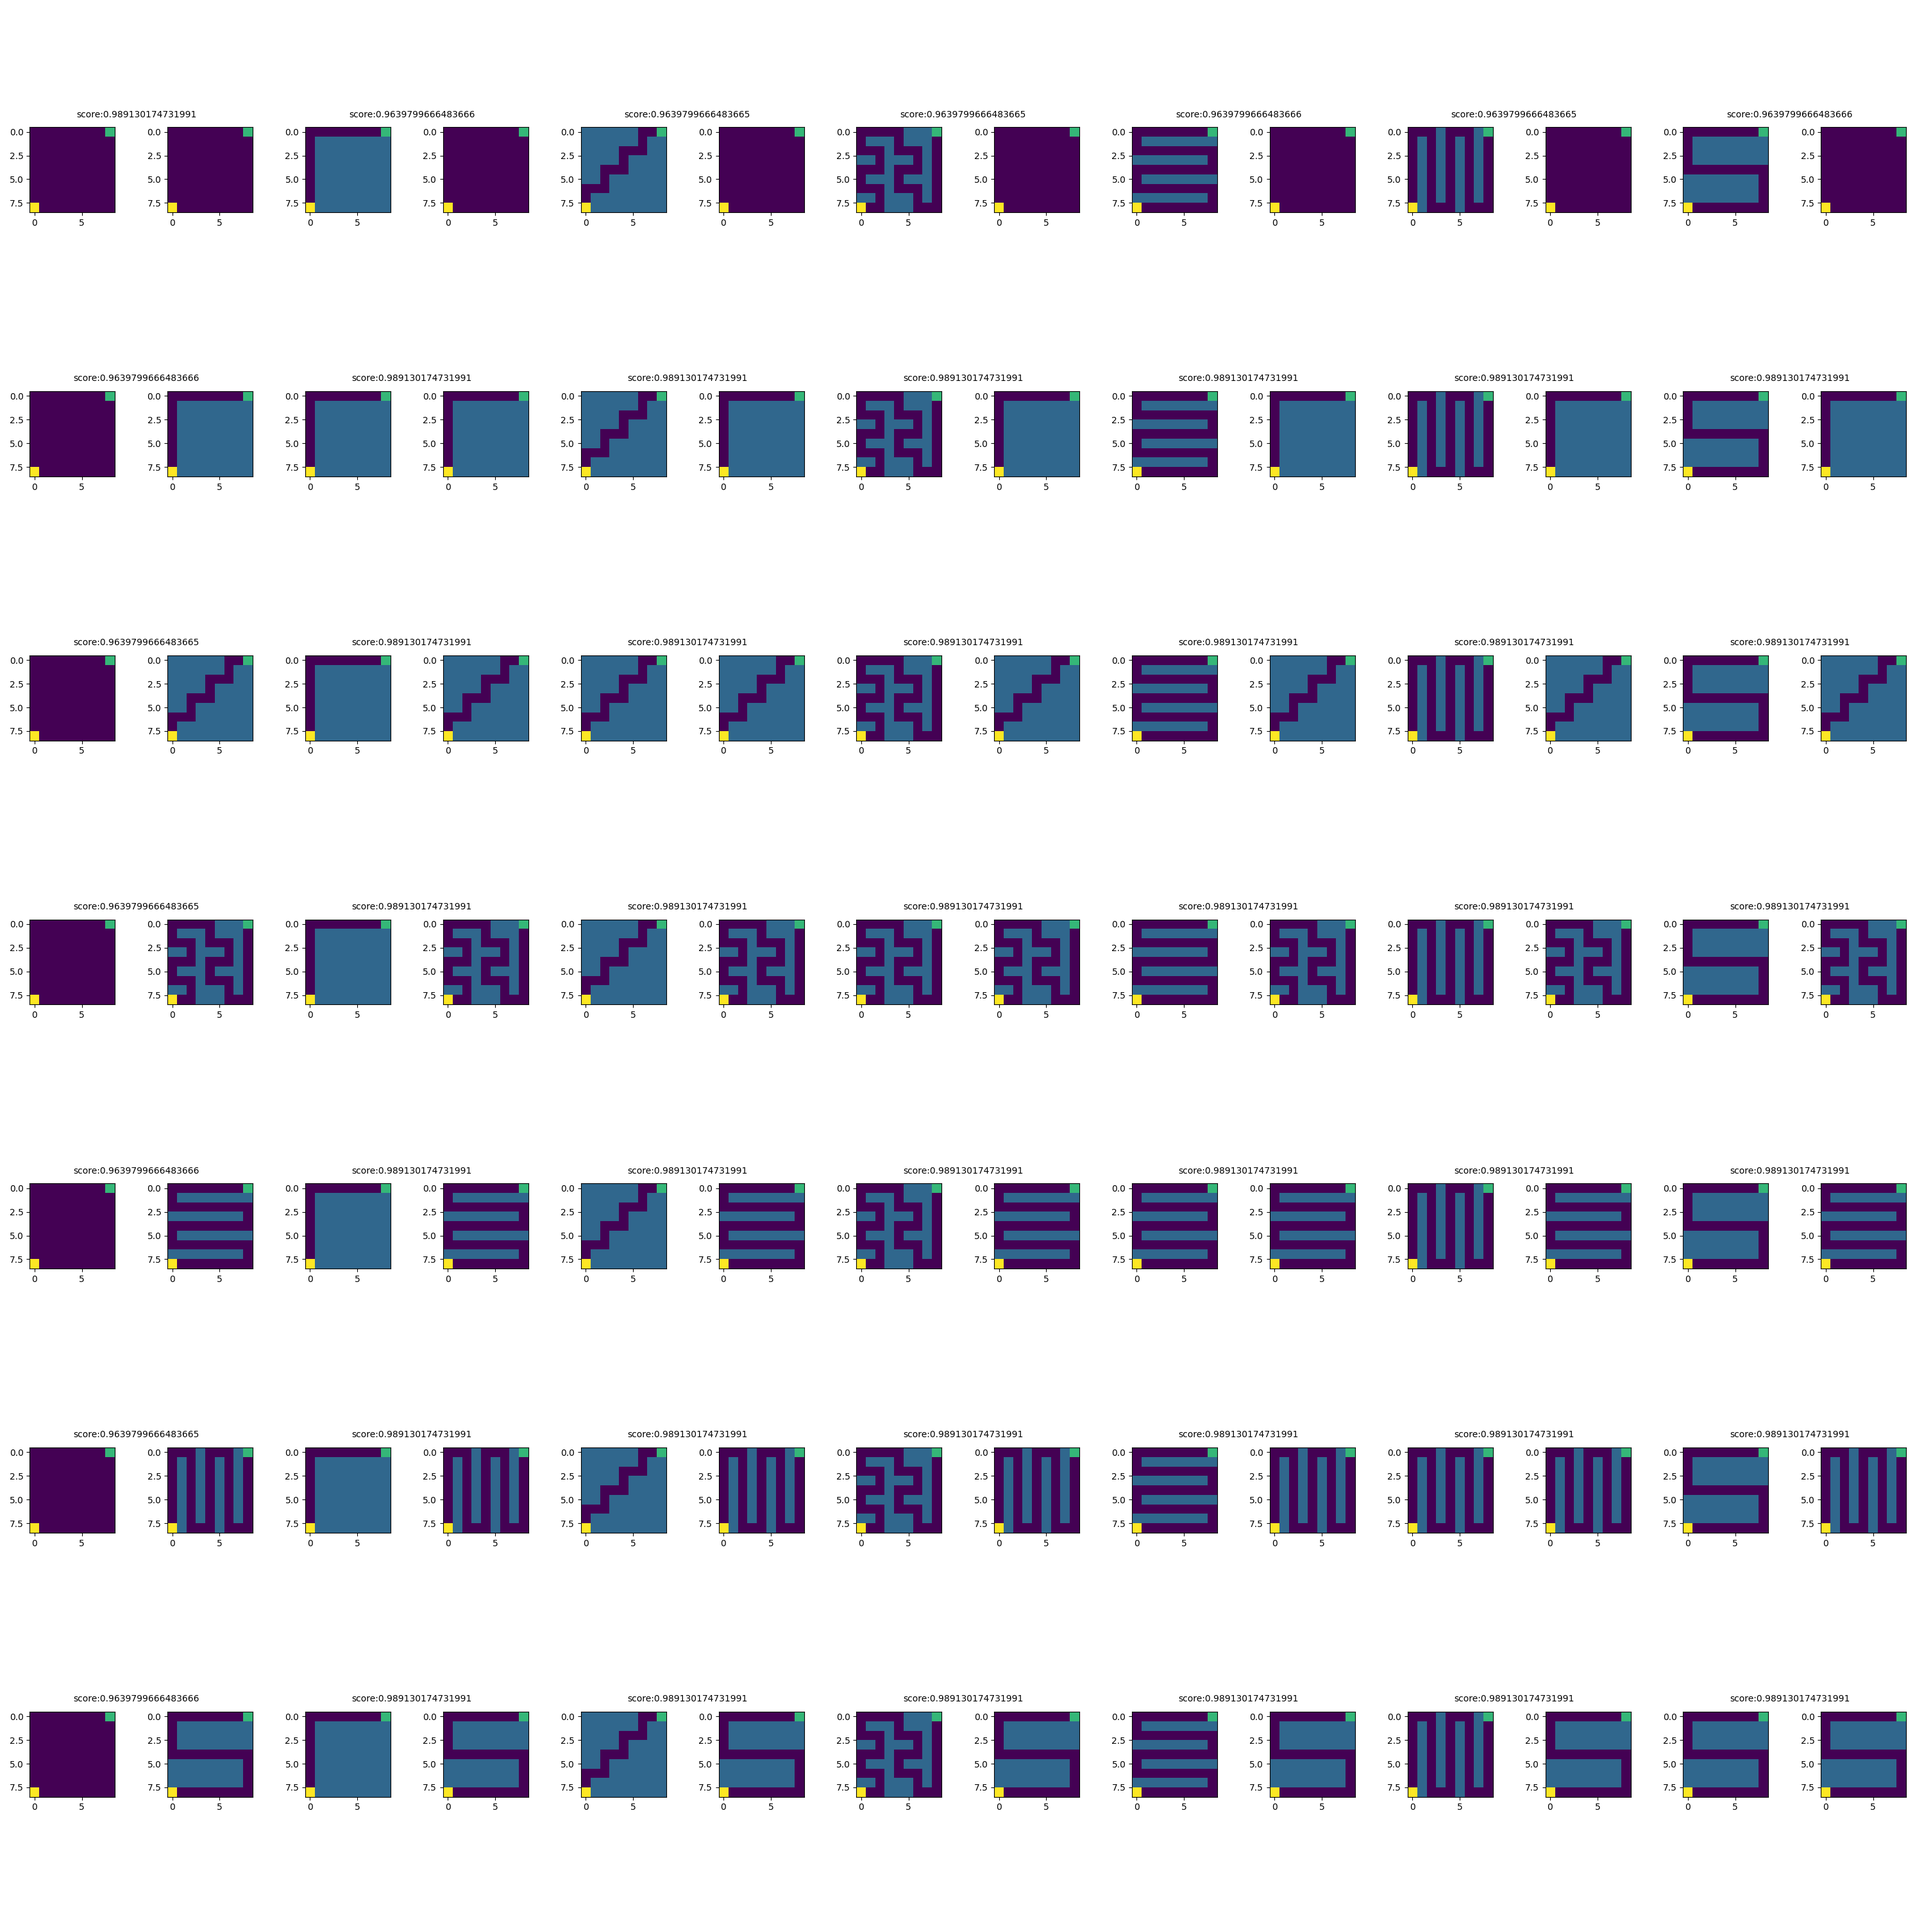
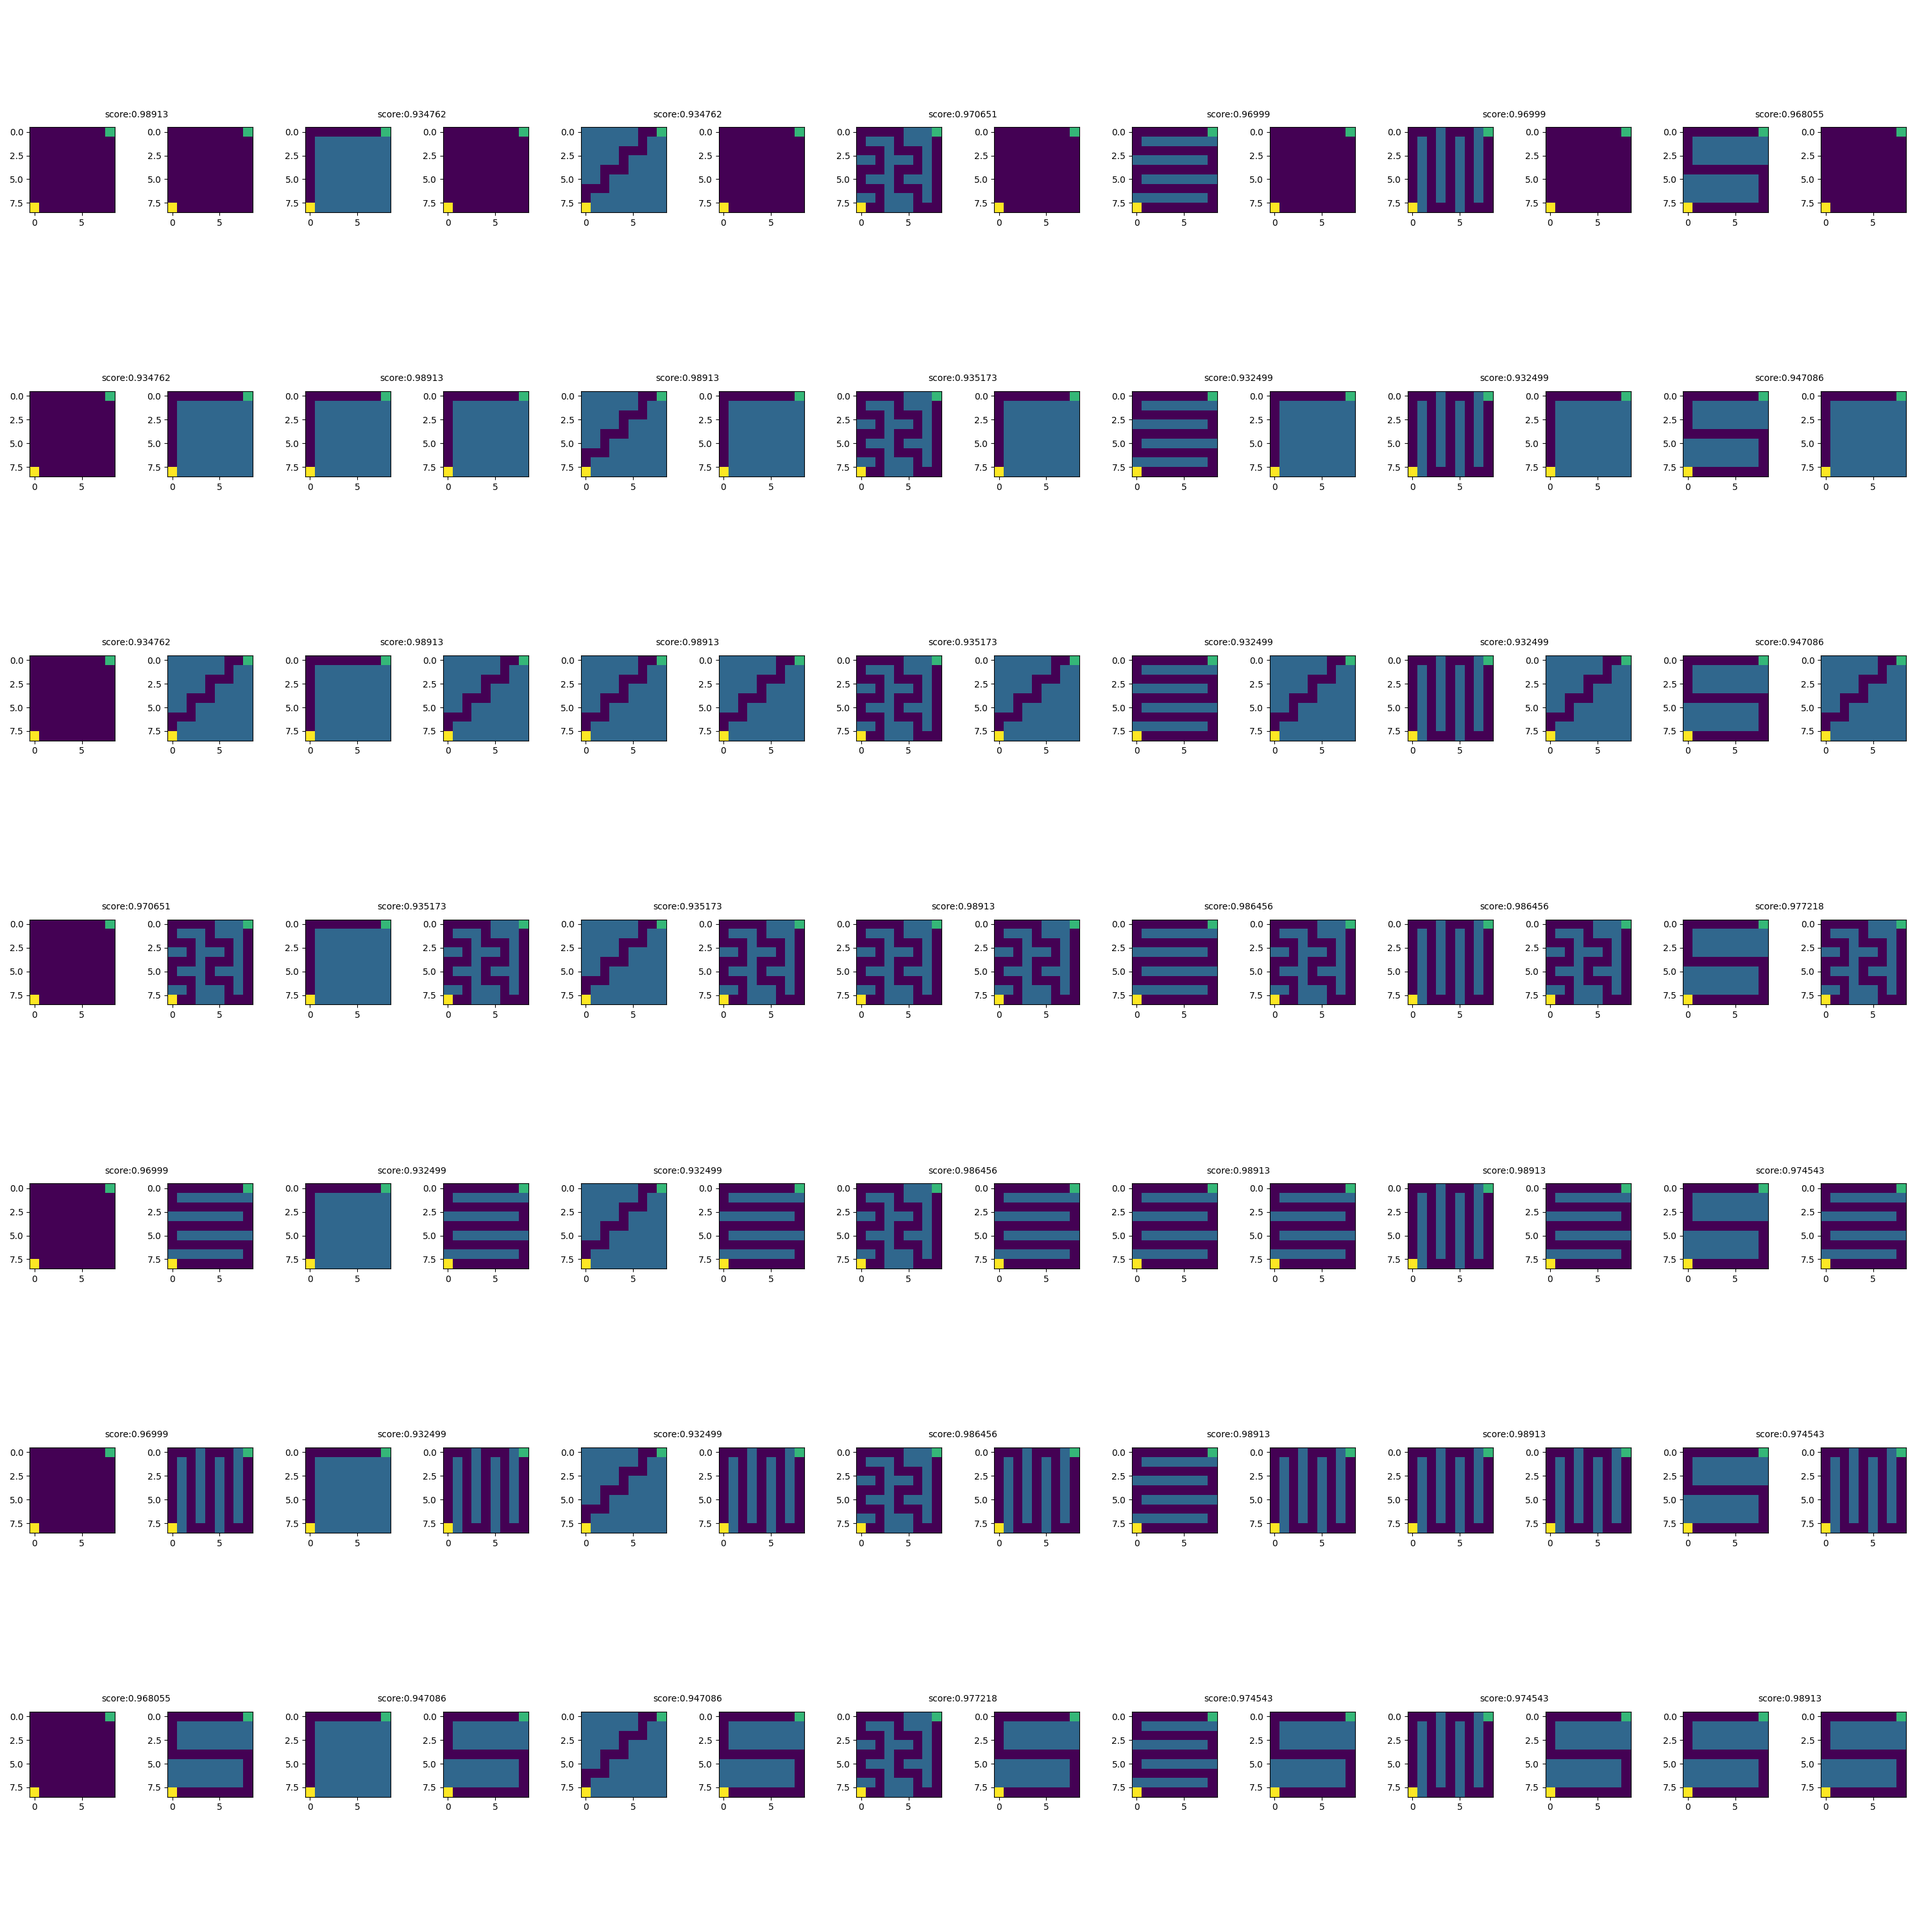
added new strategy

diff --git a/tasksim/gridworld_generator.py b/tasksim/gridworld_generator.py
@@ -22,6 +22,8 @@ from enum import Enum
 
 from collections import namedtuple
 
+
+
 # Strategy for available actions; k = # of actions at each state
 # TODO: allow for both action & effect at once? NOOP_BOTH & WRAP_NOOP_BOTH maybe...
 # TODO: make composable traits, rather than all combinations listed out...
@@ -32,6 +34,11 @@ class ActionStrategy(Enum):
     WRAP_SUBSET = 4 # SUBSET, but wraparound at borders
     WRAP_NOOP_ACTION = 5 # NOOP_ACTION, ""
     WRAP_NOOP_EFFECT = 6 # NOOP_EFFECT, ""
+    SUBSET_COMPRESS = 7 # Subset, plus remove obstacles entirely from state graph
+    NOOP_EFFECT_COMPRESS = 8 # Subset, plus remove obstacles entirely from state graph
+
+WRAP_STRATS = [ActionStrategy.WRAP_SUBSET, ActionStrategy.WRAP_NOOP_ACTION, ActionStrategy.WRAP_NOOP_EFFECT]
+COMPRESS_STRATS = [ActionStrategy.SUBSET_COMPRESS, ActionStrategy.NOOP_EFFECT_COMPRESS]
 
 # Simple-ish wrapper class of (P, R, out_s, out_a)
 class MDPGraph:
@@ -70,7 +77,7 @@ class MDPGraph:
             moves[4] = state
 
         # start wtih no-op effect for all actions
-        if strat == ActionStrategy.NOOP_EFFECT or strat == ActionStrategy.WRAP_NOOP_EFFECT:
+        if strat == ActionStrategy.NOOP_EFFECT or strat == ActionStrategy.WRAP_NOOP_EFFECT or strat == ActionStrategy.NOOP_EFFECT_COMPRESS:
             moves[0] = moves[1] = moves[2] = moves[3] = state
         
         # obstacles and goal states have no out neighbors (besides no-op)
@@ -78,7 +85,7 @@ class MDPGraph:
             return moves
         
         # should wrap around or not
-        wrap = (strat in [ActionStrategy.WRAP_NOOP_EFFECT, ActionStrategy.WRAP_NOOP_ACTION, ActionStrategy.WRAP_SUBSET])
+        wrap = (strat in WRAP_STRATS)
 
         # left
         if col > 0 and grid[row][col - 1] != 1:
@@ -107,12 +114,22 @@ class MDPGraph:
     def grid_to_graph(cls, grid, success_prob=0.9, reward=1, strat=ActionStrategy.NOOP_ACTION):
         height, width = grid.shape
         goal_states = []
+        num_states = 0
+        states_to_grid = {}
+        grid_to_states = {}
         for i in range(height):
             for j in range(width):
+                grid_to_states[width*i + j] = np.nan
+                if grid[i][j] == 1 and strat in COMPRESS_STRATS:
+                    continue
                 if grid[i][j] == 2:
-                    goal_states.append(i*width + j)
+                    goal_states.append(num_states)
+                states_to_grid[num_states] = i*width + j
+                grid_to_states[width*i + j] = num_states
+                num_states += 1
         #assert len(goal_states) >= 1, 'At least one goal state required'
-        num_states = height * width
+        # COMPRESS out obstacles if needed
+        #num_states = height * width
         out_neighbors_s = dict(zip(range(num_states), 
                                     [np.empty(shape=(0,), dtype=int) for i in range(num_states)]))
         out_neighbors_a = dict()
@@ -121,9 +138,9 @@ class MDPGraph:
         a_node = 0
         available_actions = np.zeros((num_states, num_grid_actions))
         for s in range(num_states):
-            actions = cls.get_valid_adjacent(s, grid, strat)
+            actions = cls.get_valid_adjacent(states_to_grid[s], grid, strat)
             available_actions[s, :] = [1 if a is not None else 0 for a in actions]
-            filtered_actions = [a for a in actions if a is not None]
+            filtered_actions = [grid_to_states[a] for a in actions if a is not None]
             # assert len(filtered_actions) == 0 or len(filtered_actions) >= 2, \
             #         'Invalid actions; must be either zero or at least 2 (action + no-op)'
             for action_id, action in enumerate(filtered_actions):

diff --git a/tasksim/mazes.py b/tasksim/mazes.py
@@ -1,4 +1,5 @@
 from typing import List, Tuple
+from tasksim.gridworld_generator import ActionStrategy
 from tasksim.qtrainer import *
 from tasksim.scenarios import sim_score
 
@@ -9,6 +10,9 @@ UP = 1
 DOWN = 2
 LEFT = 3
 RIGHT = 4
+
+
+STRAT = ActionStrategy.NOOP_EFFECT_COMPRESS
 
 
 def create_mazes(dimensions: Tuple[int], paths: List[List[int]]):
@@ -24,7 +28,7 @@ def build_maze(dimensions: Tuple[int], path: List[int]):
     fixed_start = ravel(dimensions[0] - 1, 0, rows=dimensions[0], cols=dimensions[1])
     goal_loc = dimensions[1] - 1
     builder = EnvironmentBuilder(dimensions) \
-        .set_strat(gen.ActionStrategy.NOOP_EFFECT)\
+        .set_strat(STRAT)\
         .set_fixed_start(fixed_start=fixed_start)\
         .set_success_prob(success_prob=1.0)\
         .set_obs_size(max_obs)\
@@ -73,8 +77,14 @@ if __name__ == '__main__':
 
     metric = args.metric
 
+    # grid1 = gen.create_grid((2, 2))
+    # grid2 = gen.create_grid((2, 2))
+    # grid2[0, 1] = 1
+    # G1 = gen.MDPGraph.from_grid(grid1, success_prob=1, reward=1, strat=ActionStrategy.NOOP_EFFECT_COMPRESS)
+    # G2 = gen.MDPGraph.from_grid(grid2, success_prob=1, reward=1, strat=ActionStrategy.NOOP_EFFECT_COMPRESS)
+
     dimensions = (9, 9)
-    empty_env = EnvironmentBuilder(dimensions).set_strat(gen.ActionStrategy.NOOP_EFFECT).set_goals([ravel(0, 8, *dimensions)]).set_fixed_start(ravel(8, 0, *dimensions)).set_success_prob(1.0).set_obs_size(9).build()
+    empty_env = EnvironmentBuilder(dimensions).set_strat(STRAT).set_goals([ravel(0, 8, *dimensions)]).set_fixed_start(ravel(8, 0, *dimensions)).set_success_prob(1.0).set_obs_size(9).build()
 
     maze1 = [UP] * 9 + [RIGHT] * 9
     maze2 = [UP, UP, RIGHT, RIGHT] * 4
@@ -90,10 +100,13 @@ if __name__ == '__main__':
     
     sim_scores : List[List[float]] = []
     unique_scores = set()
+    precision = 6
+    precision_str = f'%.{precision}f'
     for i in range(len(envs)):
         scores = []
         for j in range(len(envs)):
-            score = sim_score(envs[i], envs[j], metric=metric)
+            score, S = sim_score(envs[i], envs[j], metric=metric, detailed=True)
+            score = float(precision_str % score)
             unique_scores.add(score)
             scores.append(score)
 

diff --git a/tasksim/structural_similarity.py b/tasksim/structural_similarity.py
@@ -54,6 +54,8 @@ def final_score(S, c_n=1.0):
     d_num_states = 1 - min(ns/nt, nt/ns)
     return c_n * ot.emd2(a, b, 1-S) + (1 - c_n) * d_num_states
 def final_score_song(S):
+    if isinstance(S, tuple):
+        S = S[0]
     ns, nt = S.shape
     a = np.array([1/ns for _ in range(ns)])
     b = np.array([1/nt for _ in range(nt)])
@@ -262,13 +264,16 @@ def cross_structural_similarity_song(action_dists1, action_dists2, reward_matrix
                 # TODO: what if this is greater than 1? Is that still okay?? Should we scale d_rwd by (1-c)?
                 #import pdb; pdb.set_trace()
                 tmp = (1 - c)*d_rwd + c*d_emd
-                assert tmp <= 1, 'd_rwd & d_emd combination resulted in value greater than 1'
+                if tmp <= 1 and not cross_structural_similarity_song.WARNED:
+                    print('WARNING: d_rwd & d_emd combination resulted in value greater than 1')
+                    cross_structural_similarity_song.WARNED = True
+                    
                 d_prime[s_i, s_j] = max(d_prime[s_i, s_j], tmp)
         delta = np.sum(np.abs(d_prime - d)) / (n_states1*n_states2)
         for s_i, s_j in zip(states1, states2):
             d[s_i, s_j] = d_prime[s_i, s_j]
     return d, True
-
+cross_structural_similarity_song.WARNED = False
 
 # TODO: Change InitStrategy to be ONES? Would need to re-run experiments...
 def cross_structural_similarity(action_dists1, action_dists2, reward_matrix1, reward_matrix2, out_neighbors_S1,

diff --git a/tasksim/environment.py b/tasksim/environment.py
@@ -15,7 +15,7 @@ class MDPGraphEnv(gym.Env):
         super(MDPGraphEnv, self).__init__()
         self.fixed_start = fixed_start
         self.random_state = random_state if random_state is not None else np.random
-        supported_strats = [gen.ActionStrategy.NOOP_EFFECT, gen.ActionStrategy.WRAP_NOOP_EFFECT]
+        supported_strats = [gen.ActionStrategy.NOOP_EFFECT, gen.ActionStrategy.WRAP_NOOP_EFFECT, gen.ActionStrategy.NOOP_EFFECT_COMPRESS]
         # TODO: change from assertion to throw? Or just don't take graph instance; take grid, prob, etc. instead
         assert graph.strat in supported_strats, f'Unsupported ActionStrategy: {graph.strat}'
         assert obs_size >= 3 and obs_size % 2 == 1, f'Obs Size must be an odd number >= 3'

diff --git a/tasksim/scenarios.py b/tasksim/scenarios.py
@@ -20,17 +20,18 @@ def run_simulation(trainer : QTrainer, repeat=2, delay=0.1):
             steps += 1
         
 
-def sim_score(env1, env2, metric='new'):
+def sim_score(env1, env2, metric='new', detailed=False):
     if metric == 'new':
         res = env1.graph.compare(env2.graph)
         S = res[0]
-        return 1 - sim.final_score(S)            
+        val = 1 - sim.final_score(S)
     elif metric == 'song':
         res = env1.graph.compare_song(env2.graph)
         S = res[0]
-        return 1 - sim.final_score_song(S)            
+        val = 1 - sim.final_score_song(S)
     else:
         raise ArgumentError(f'Invalid metric option: {metric}')
+    return val, S if detailed else val
 
 
 if __name__ == '__main__':
